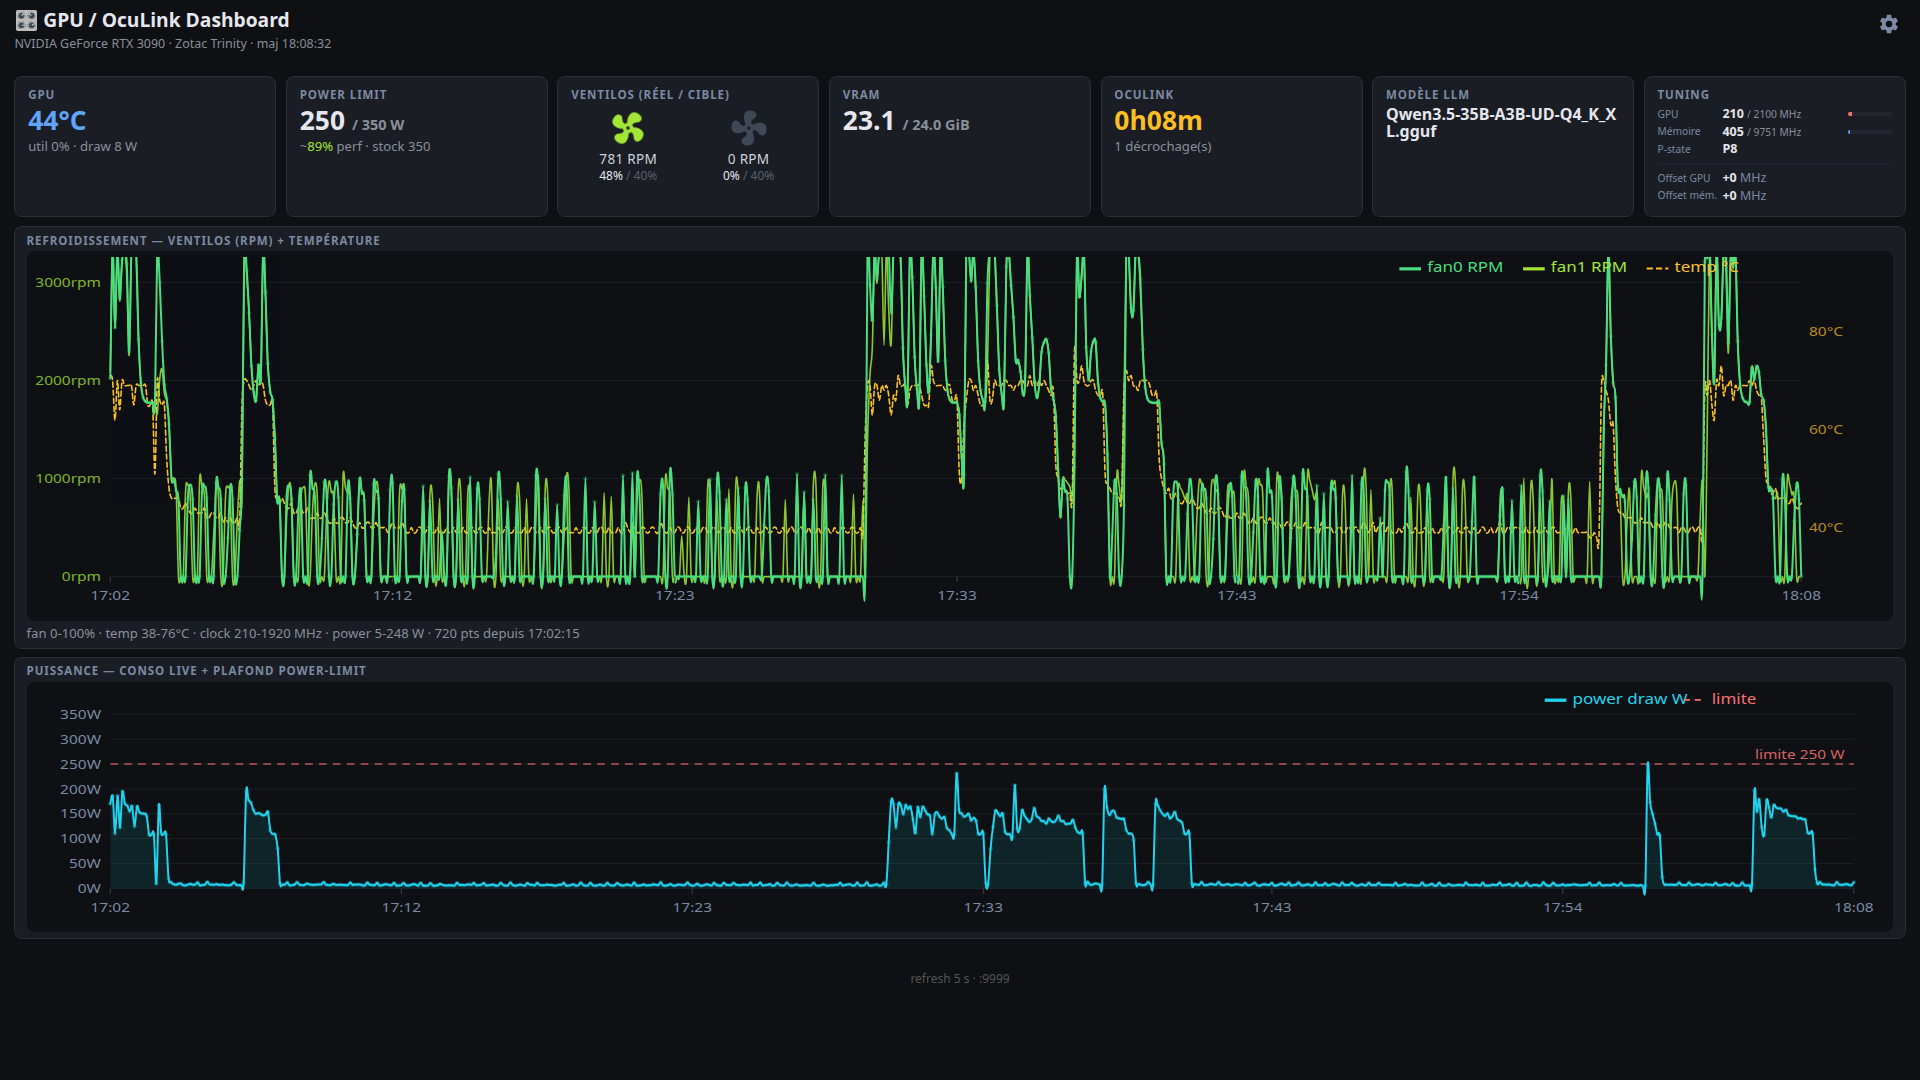
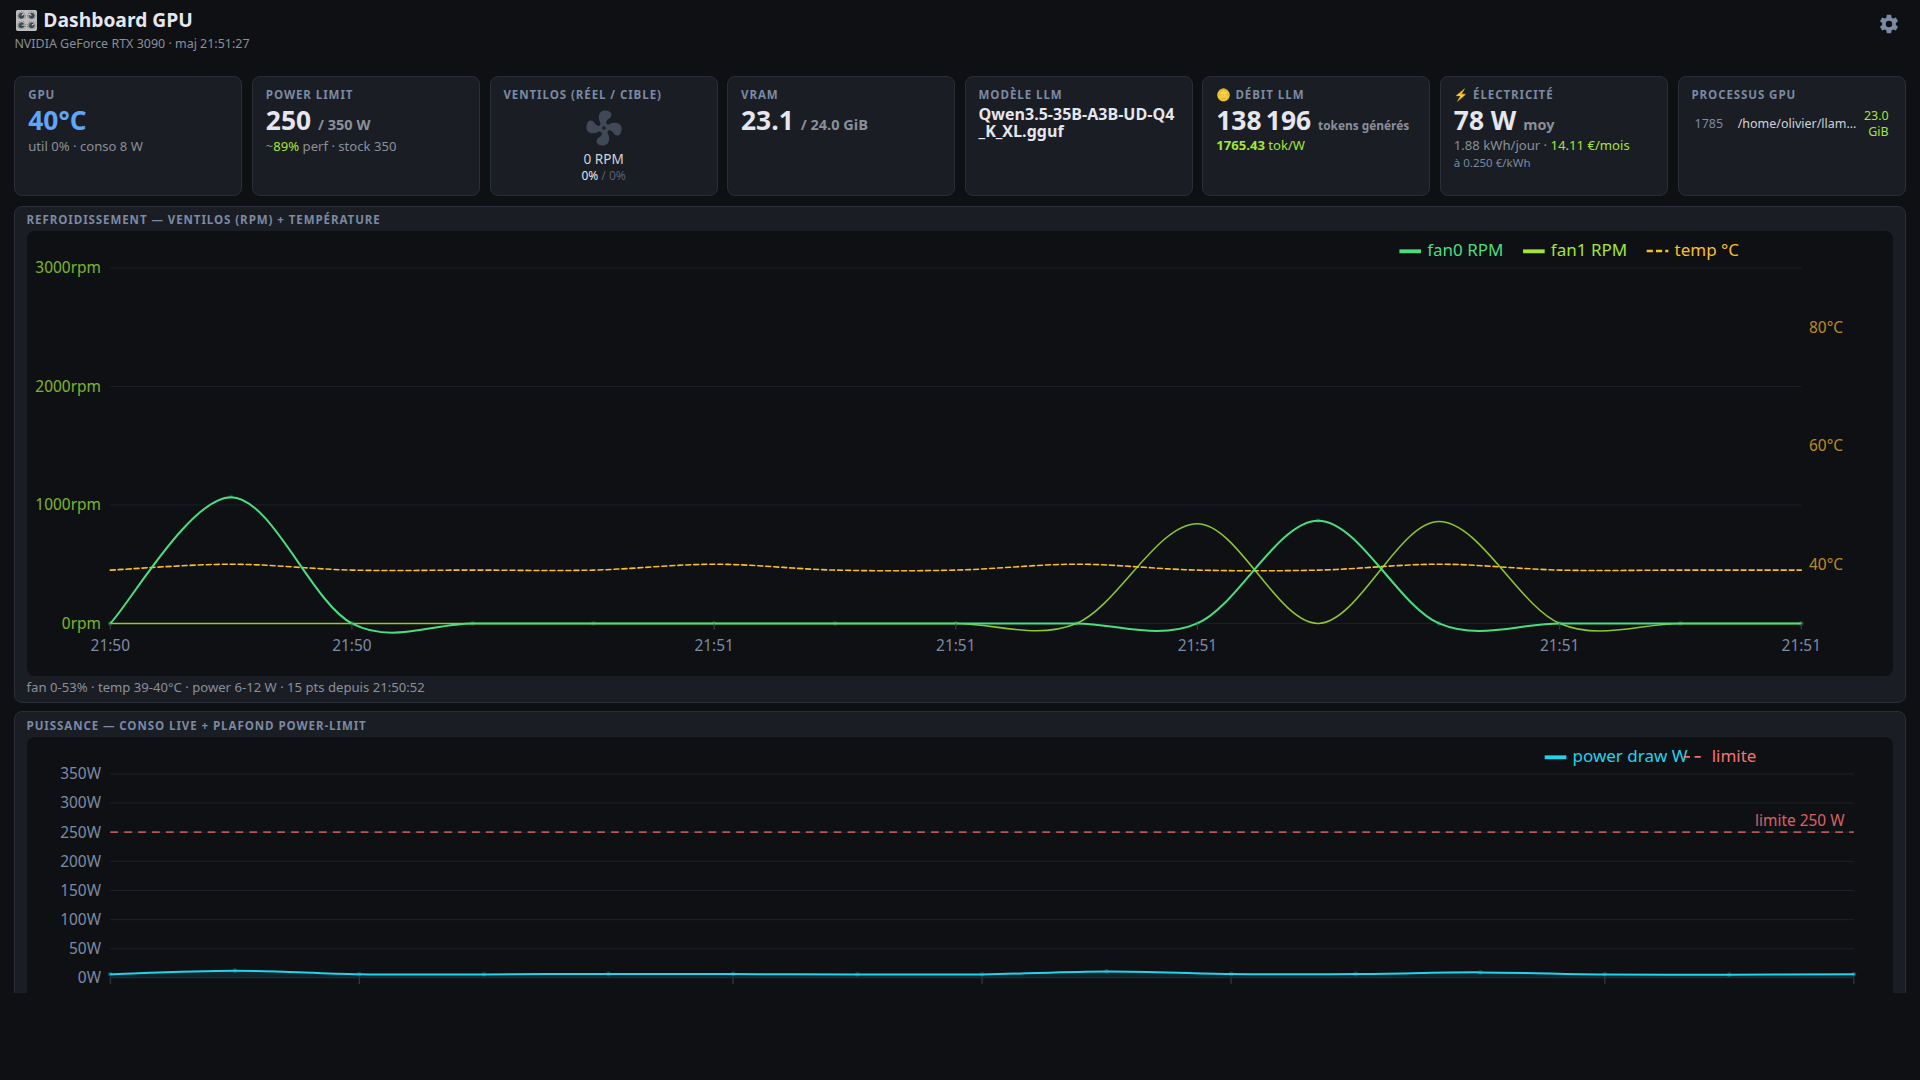
docs(screenshots): refresh dashboard + add mobile capture
The previous docs/screenshot.png was taken before the v0.3 features
landed (no electricity card, no LLM throughput, no processes, no
auto-profile indicators). Replaced with a fresh capture showing :

  8 live cards : GPU 40°C · Power 250/350W (89% perf) · Fans · VRAM
                 23.1/24 GiB · Modèle LLM (Qwen3.5-35B real, fetched
                 from your running llama-server) · 🪙 138,196 tokens
                 generated + 1765 tok/W efficiency (UNIQUE feature) ·
                 ⚡ 78W avg → 14.11€/month at 0.250 €/kWh ·
                 Processus GPU PID 1785 (llama-server) using 23 GiB
  Cooling chart : fan0/fan1 RPM with real activity peaks + temp
  Power chart   : 250W cap line + live draw curve

New docs/mobile/dashboard-mobile.png shows the single-column responsive
layout at 375px (iPhone SE width) with all 8 cards stacking cleanly.

README updated : caption under main screenshot explains the unique
LLM-focused tiles, new Mobile responsive section.

diff --git a/README.md b/README.md
@@ -12,6 +12,15 @@
 
 ![Dashboard](docs/screenshot.png)
 
+> Showing 8 live cards : GPU temp · power-limit + perf% · fan RPM/target · VRAM ·
+> **LLM model** (real-time from llama-server) · **🪙 Tokens generated + tok/W
+> efficiency** (unique to gpu-dashboard) · **⚡ Electricity €/month** · Compute
+> processes. Below : Cooling chart (fan0/fan1 RPM + temp dashed) and Power chart
+> (live draw + power-limit cap).
+
+### Mobile responsive
+<img src="docs/mobile/dashboard-mobile.png" width="280" alt="Single-column mobile layout" />
+
 ### 5-step web wizard on first launch
 
 <table>